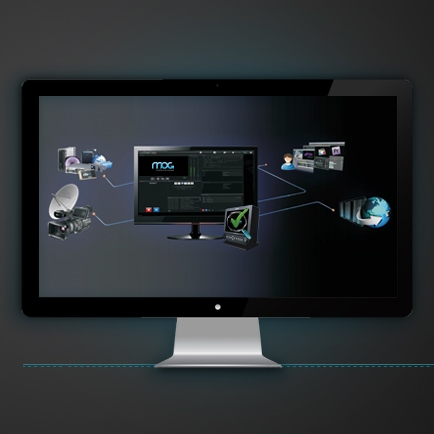
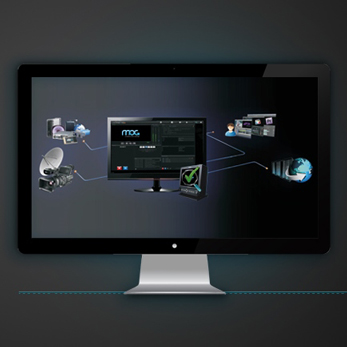
Image optimization (2)

diff --git a/index.html b/index.html
@@ -61,7 +61,7 @@ See more
 <div class=row>
 <div class=col-4>
 <div class=project>
-<img src=img/fit.jpg alt="Image of Fit Project" />
+<img src=img/fit.png alt="Image of Fit Project" />
 <div class=content>
 <h3>FIT</h3>
 <p class=description>A web and mobile solution for gyms and fitness centers. Includes a website, a mobile website and an Android app.</p>
@@ -95,7 +95,7 @@ See more
 </div>
 <div class=col-4>
 <div class=project>
-<img src=img/cloudvideo.jpg alt="Image of Cloud Video Project"/>
+<img src=img/cloudvideo.png alt="Image of Cloud Video Project"/>
 <div class=content>
 <h3>CloudVideo</h3>
 <p class=description>A personal video-on-demand application to upload videos and play them anywere.</p>
@@ -120,7 +120,7 @@ See more
 </div>
 <div class=col-4>
 <div class=project>
-<img src=img/bigthingthin.jpg alt="Image of The Next Big Thing"/>
+<img src=img/bigthingthin.png alt="Image of The Next Big Thing"/>
 <div class=content>
 <h3>Let's make it real!</h3>
 <p class=description>Contact me to start asap an awesome project.</p>
